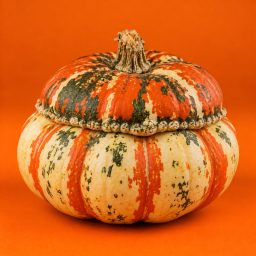
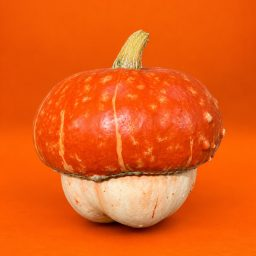
Remove the node_modules symlink that broke the deploy
Cloudflare rejected the build with "build output directory contains links
to files that can't be accessed". The cause was a node_modules symlink I
added so the sign generator could resolve playwright: it points outside the
repository, so it resolves nowhere on the build machine, and Pages refuses
the whole deploy rather than serving a dangling link.

It should never have been committed. The .gitignore entry said
"node_modules/", and a trailing slash matches directories only - when
node_modules is a symlink git sees a blob, the pattern misses it, and it
went in with everything else. Both shapes are now listed.

Also regenerates the Tiny Turk assets from the replacement photograph.

diff --git a/sw.js b/sw.js
@@ -8,7 +8,7 @@
  * Bump CACHE when anything in SHELL changes, or phones keep serving the old
  * copy until their site data is cleared.
  */
-var CACHE = "mrpumpkin-v23";
+var CACHE = "mrpumpkin-v24";
 
 /* Canonical, extensionless paths only.
  *
